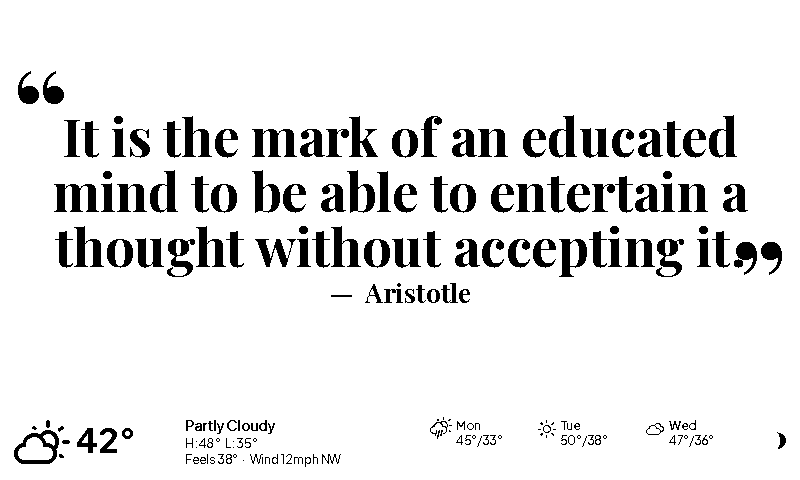
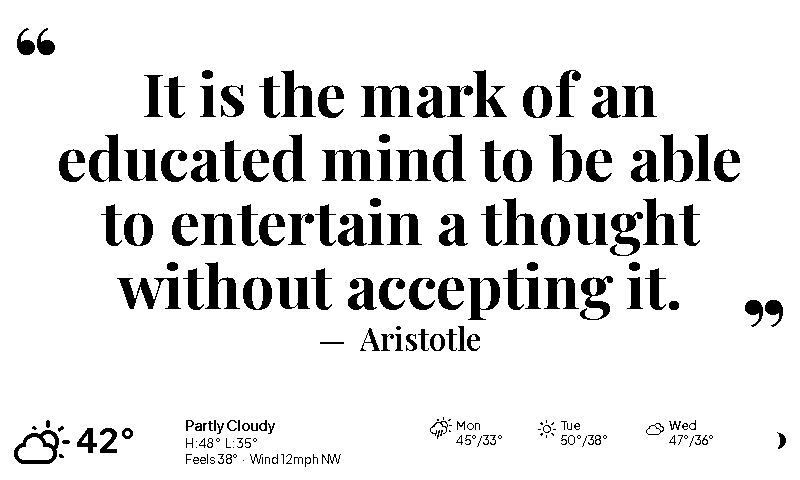
Tune qotd quote: larger max font size (64px) and slightly smaller marks
Expands the font size ladder up to 64px so shorter quotes render larger.
Reduces decorative mark size formula from 3.5× (max 120) to 3.0× (max 100)
for a better visual balance against the larger body text.

https://claude.ai/code/session_01TjduKSALT2u39sKhjJYgM6

diff --git a/src/render/components/qotd_panel.py b/src/render/components/qotd_panel.py
@@ -94,7 +94,7 @@ def draw_qotd(
     best_quote_font = None
     best_attr_font = None
 
-    for size in (52, 48, 44, 40, 36, 32, 28, 24, 20):
+    for size in (64, 60, 56, 52, 48, 44, 40, 36, 32, 28, 24, 20):
         q_font = quote_font_fn(size)
         a_size = max(13, int(size * 0.52))
         a_font = style.font_semibold(a_size)
@@ -140,7 +140,7 @@ def draw_qotd(
     # ---- Decorative oversized quotation marks ----
     # Rendered at ~3.5× body size, positioned as large corner accents that
     # frame the centred quote text — opening mark top-left, closing bottom-right.
-    mark_size = min(120, max(72, int(best_size * 3.5)))
+    mark_size = min(100, max(60, int(best_size * 3.0)))
     mark_font = style.font_bold(mark_size)
 
     for glyph, side in (('\u201c', 'open'), ('\u201d', 'close')):
